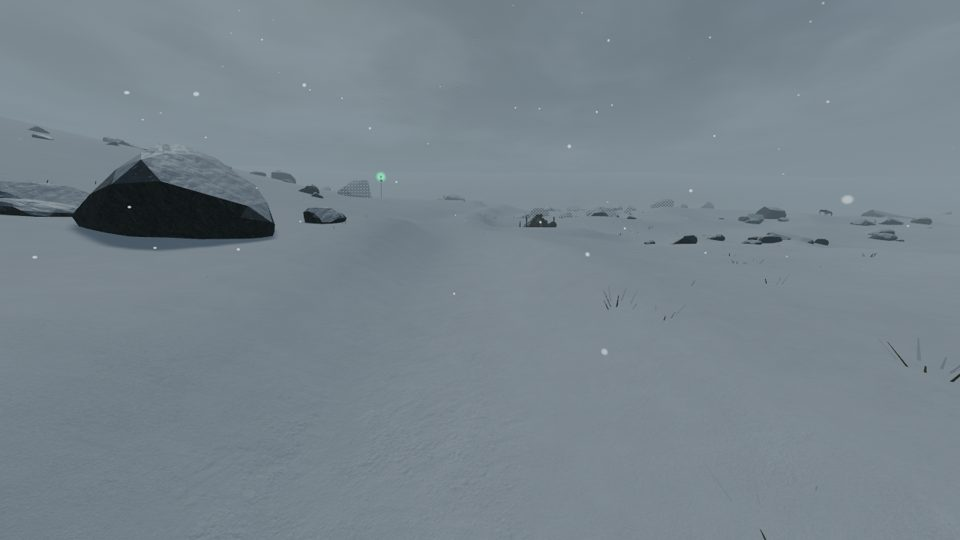
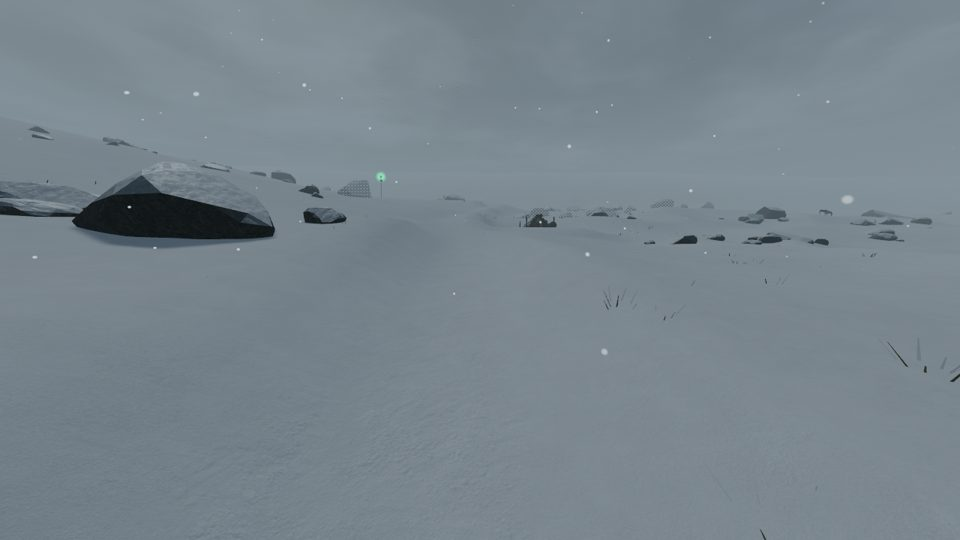
Coming home: Rime's saddle outcrop as it now sits
Claude-Session: https://claude.ai/code/session_01P1U9QbA5tmkphiBqxcZfkt

Changed region(s): [[0.0625, 0.2667, 0.2812, 0.4148], [0.125, 0.4444, 0.1562, 0.4741]]

diff --git a/docs/craft/walks/home/HOME.md b/docs/craft/walks/home/HOME.md
@@ -89,7 +89,8 @@ middle of the view.
 
 ### Rime Fell
 
-**The saddle.** Open snow all the way up to the saddle. An outcrop now
+**The saddle.** Open snow all the way up to the saddle. An outcrop, sat
+down into the snow like the fell's own boulders, now
 stands half buried on the way up, and the roadmen's woodpile lies under
 the saddle at a different spacing.
 
